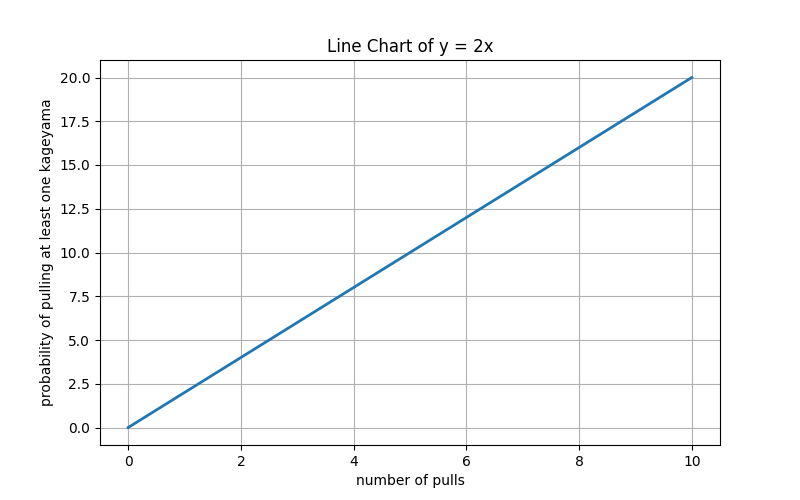
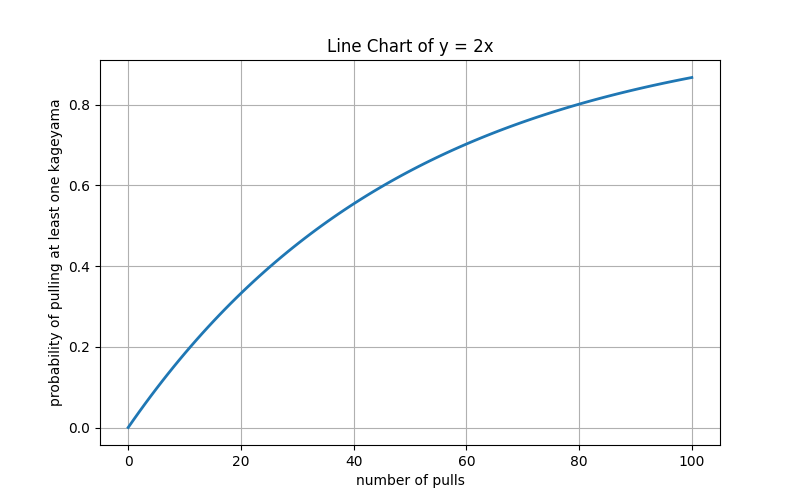
implements kageyama probabilities

diff --git a/test1.py b/test1.py
@@ -2,23 +2,18 @@ import matplotlib.pyplot as plt
 import numpy as np
 
 # Generate x values
-x = np.linspace(0, 10, 100)  # from 0 to 10 pulls
+x = np.linspace(0, 100, 100) 
 
-# Example function y = 2x (placeholder)
-y = 2 * x  # Replace this if you want real gacha logic
+y = 1 - (0.98)**x
 
-# Create the plot
 plt.figure(figsize=(8, 5))
 plt.plot(x, y, linewidth=2)
 
-# Update axis labels
 plt.xlabel('number of pulls')
-plt.ylabel('probability of pulling at least one kageyama')
+plt.ylabel('probability of pulling at least at least one kageyama')
 
-# Title and grid
-plt.title('Line Chart of y = 2x')
+plt.title('Cumulative Probability of Monster Acquisition per Number of Pulls')
 plt.grid(True)
 
-# Save to file
 plt.savefig("gacha_chart.png")
 plt.show()
